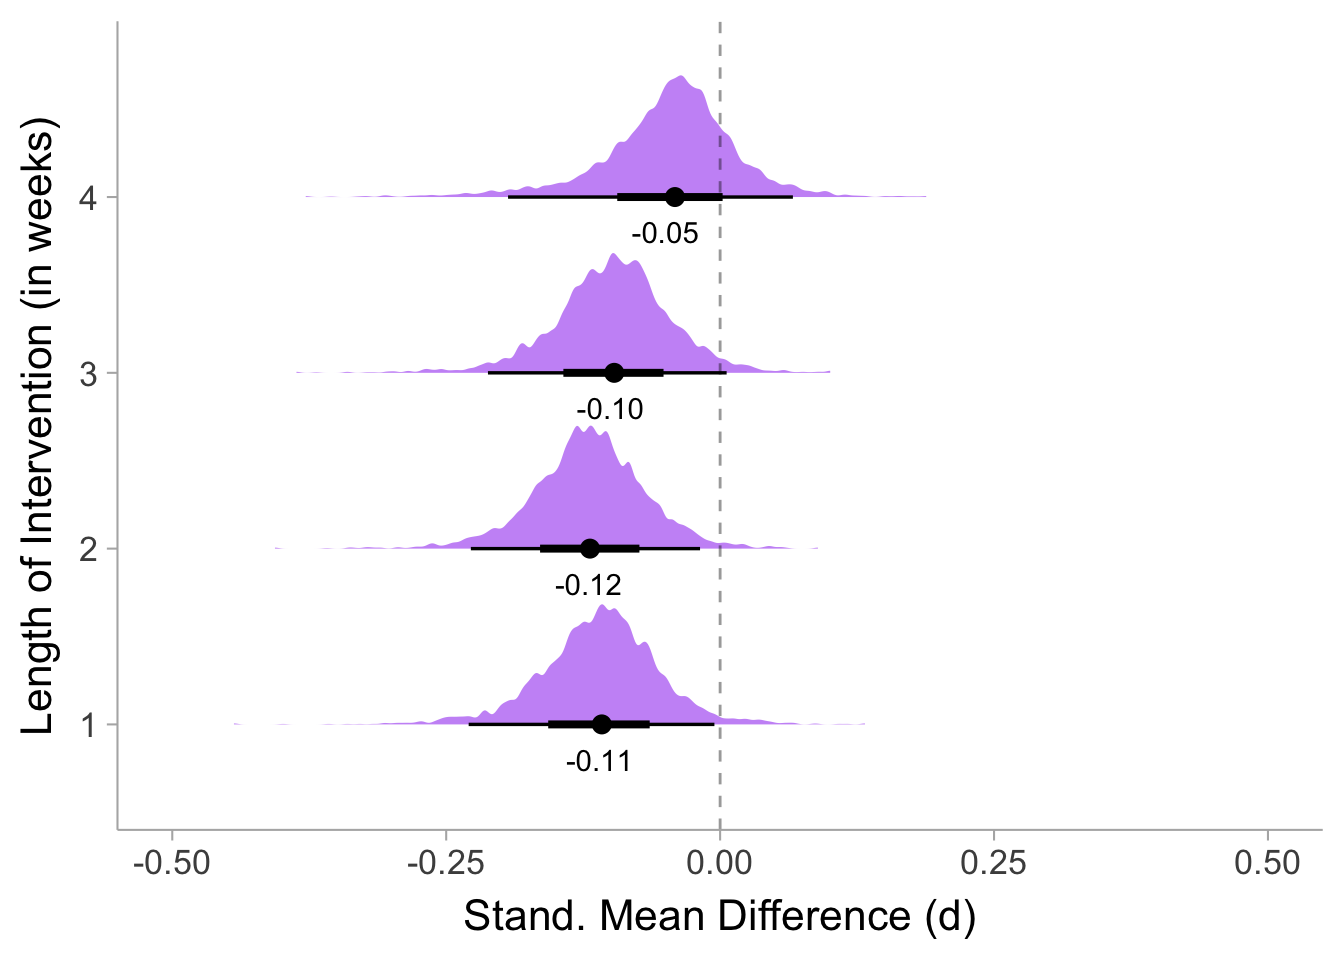
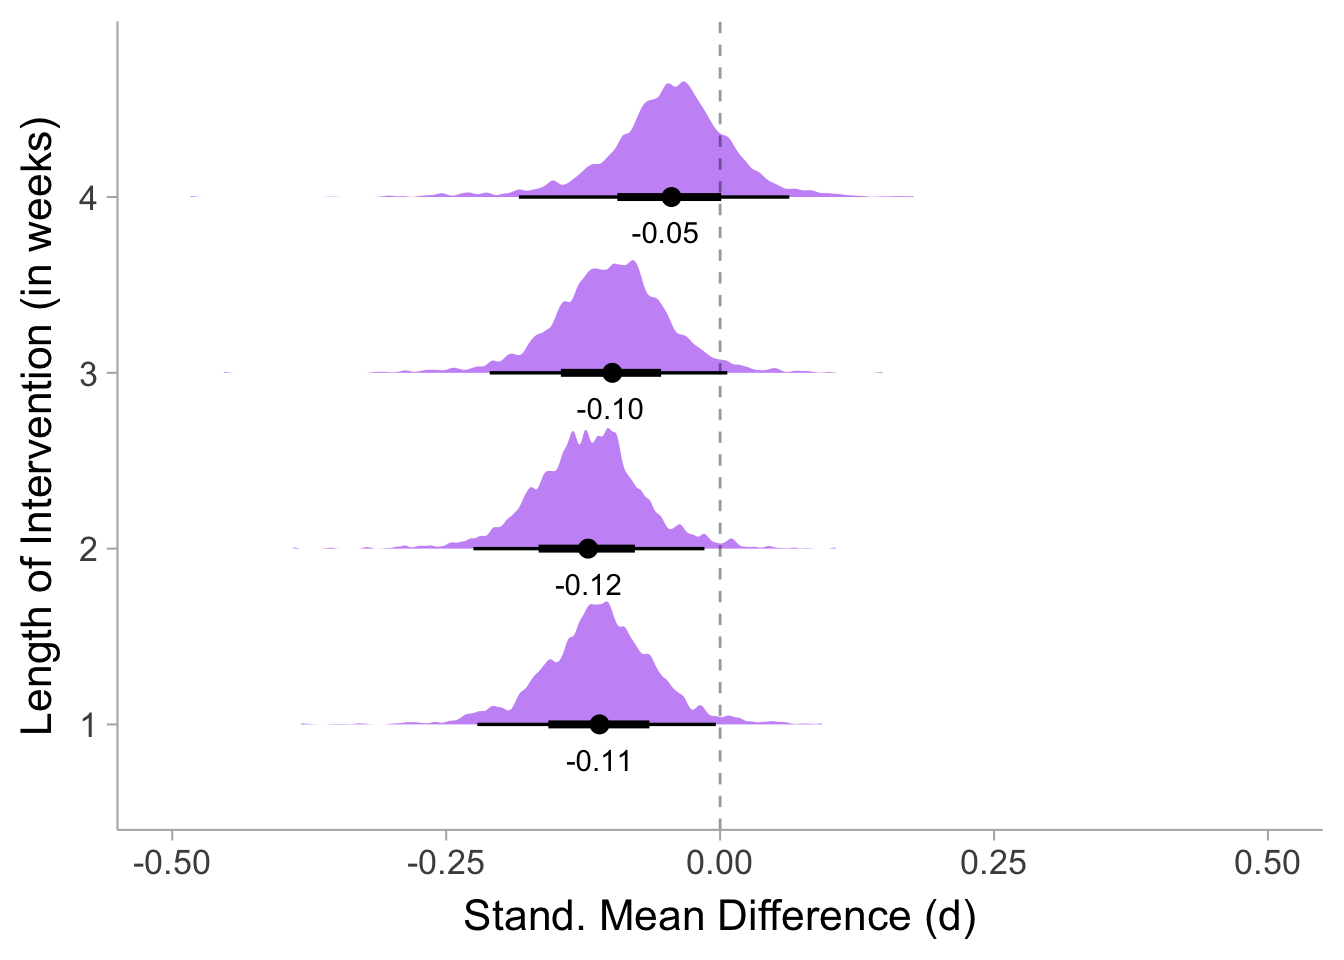
update

diff --git a/docs/social_media_mental_health.html b/docs/social_media_mental_health.html
@@ -134,14 +134,14 @@ window.Quarto = {
 
 <link rel="stylesheet" href="styles.css">
 <meta property="og:title" content="The Effect of Social Media Reduction on Depression and Anxiety: A Meta-Analysis of RCTs – Matthew B. Jané">
-<meta property="og:description" content="This site contains the most up to date database on RCTs of effects of social media’s effect on depression and anxiety. Meta-regression analysis on the length of the social media  Contributors: Minnea Rutar and Sabrina Norwood.">
+<meta property="og:description" content="This site contains the most up to date database on RCTs of effects of social media’s effect on depression and anxiety. Contributors: Minnea Rutar and Sabrina Norwood.">
 <meta property="og:image" content="https://matthewbjane.com/webLogo2.png">
 <meta property="og:site_name" content="Matthew B. Jané">
 <meta property="og:locale" content="en_US">
 <meta property="og:image:height" content="4780">
 <meta property="og:image:width" content="5906">
 <meta name="twitter:title" content="The Effect of Social Media Reduction on Depression and Anxiety: A Meta-Analysis of RCTs – Matthew B. Jané">
-<meta name="twitter:description" content="This site contains the most up to date database on RCTs of effects of social media’s effect on depression and anxiety. Meta-regression analysis on the length of the social media  Contributors: Minnea Rutar and Sabrina Norwood.">
+<meta name="twitter:description" content="This site contains the most up to date database on RCTs of effects of social media’s effect on depression and anxiety. Contributors: Minnea Rutar and Sabrina Norwood.">
 <meta name="twitter:image" content="https://matthewbjane.com/webLogo2.png">
 <meta name="twitter:creator" content="@MatthewBJane">
 <meta name="twitter:image-height" content="4780">
@@ -267,7 +267,7 @@ window.Quarto = {
 <div>
   <div class="abstract">
     <div class="block-title">Abstract</div>
-    This site contains the most up to date database on RCTs of effects of social media’s effect on depression and anxiety. Meta-regression analysis on the length of the social media <br><br> <strong>Contributors: Minnea Rutar and Sabrina Norwood.</strong><br>
+    This site contains the most up to date database on RCTs of effects of social media’s effect on depression and anxiety.<br><br> <strong>Contributors: Minnea Rutar and Sabrina Norwood.</strong><br>
   </div>
 </div>
 
@@ -335,7 +335,7 @@ s_0 = \sqrt{\frac{(n_R-1)\left(s^R_0\right)^2 + (n_C-1)\left(s^C_0\right)^2}{n_R
 <span id="cb5-3"><a href="#cb5-3" aria-hidden="true" tabindex="-1"></a></span>
 <span id="cb5-4"><a href="#cb5-4" aria-hidden="true" tabindex="-1"></a>df <span class="ot">&lt;-</span> <span class="fu">read.csv</span>(<span class="st">"social_media_data.csv"</span>)</span>
 <span id="cb5-5"><a href="#cb5-5" aria-hidden="true" tabindex="-1"></a></span>
-<span id="cb5-6"><a href="#cb5-6" aria-hidden="true" tabindex="-1"></a><span class="co"># assume .70 pre-post correlation</span></span>
+<span id="cb5-6"><a href="#cb5-6" aria-hidden="true" tabindex="-1"></a><span class="co"># assume .75 pre-post correlation</span></span>
 <span id="cb5-7"><a href="#cb5-7" aria-hidden="true" tabindex="-1"></a>r <span class="ot">&lt;-</span> .<span class="dv">75</span></span>
 <span id="cb5-8"><a href="#cb5-8" aria-hidden="true" tabindex="-1"></a></span>
 <span id="cb5-9"><a href="#cb5-9" aria-hidden="true" tabindex="-1"></a>dat <span class="ot">&lt;-</span> df <span class="sc">%&gt;%</span></span>
